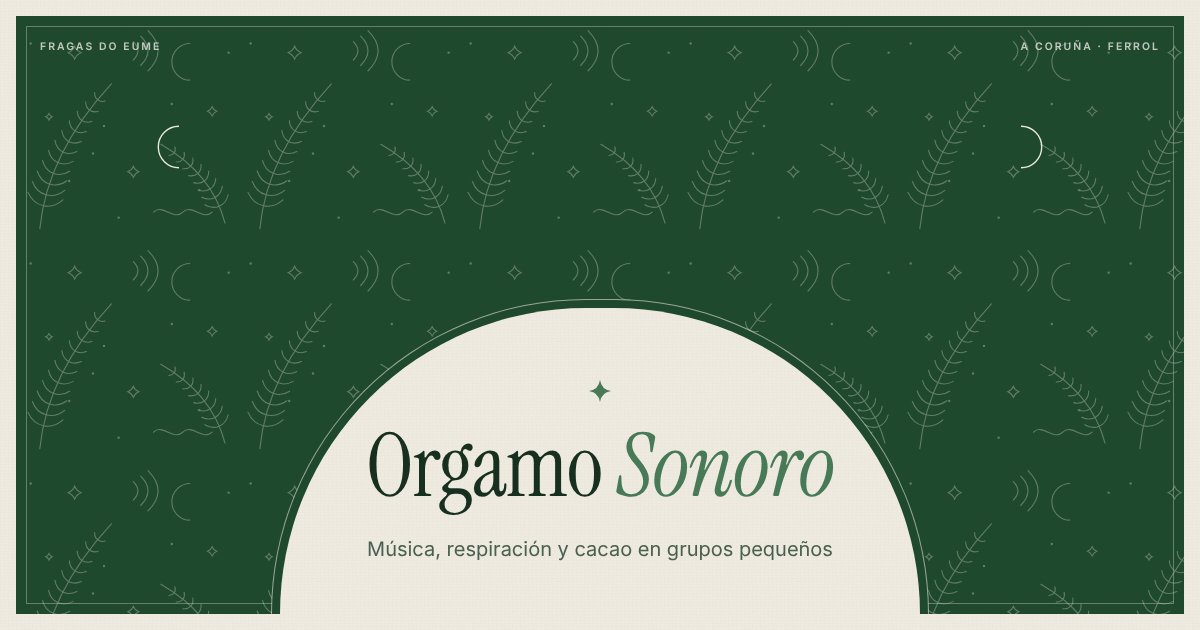
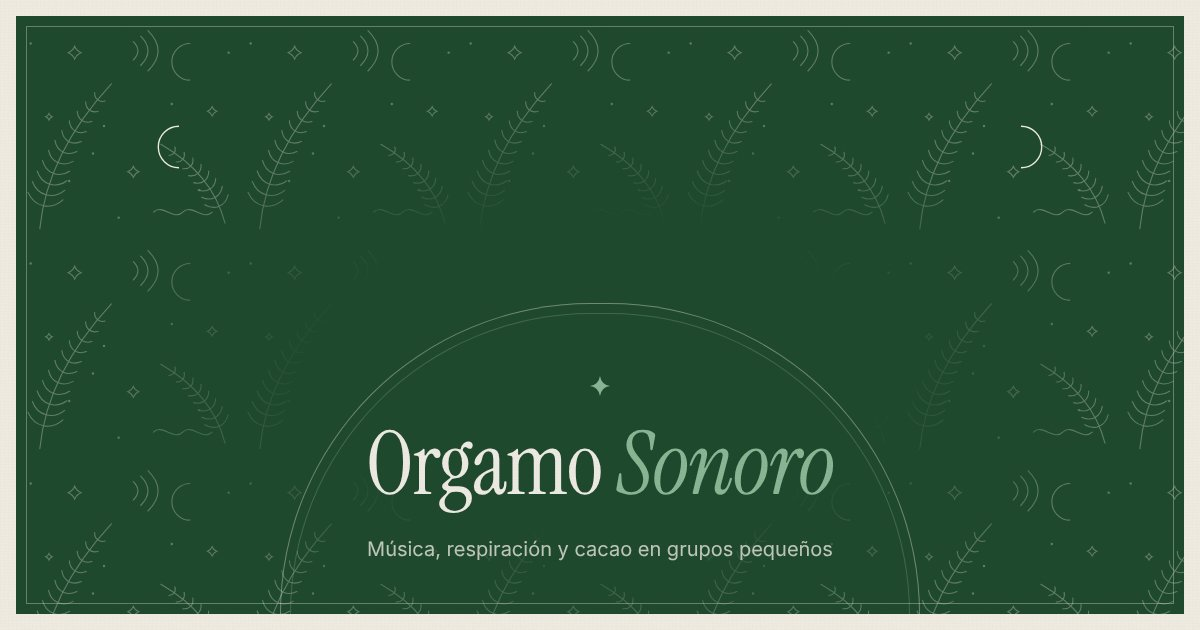
Quita las etiquetas de las esquinas del hero
Claude-Session: https://claude.ai/code/session_01UNSihENfcE9JtbGhWD4Q16

diff --git a/index.html b/index.html
@@ -151,8 +151,6 @@
     <!-- 2. Hero: lámina enmarcada con toile de helechos; el grabado se desvanece tras el texto -->
     <section class="hero" id="inicio" aria-labelledby="hero-titulo">
       <div class="hero__frame">
-        <span class="hero__corner hero__corner--tl">Fragas do Eume</span>
-        <span class="hero__corner hero__corner--tr">Encontro Nº 01</span>
         <svg class="hero__moon hero__moon--l" aria-hidden="true" viewBox="0 0 40 40"><path d="M20 2 A18 18 0 1 0 20 38 A13 13 0 1 1 20 2 Z"/></svg>
         <svg class="hero__moon hero__moon--r" aria-hidden="true" viewBox="0 0 40 40"><path d="M20 2 A18 18 0 1 1 20 38 A13 13 0 1 0 20 2 Z"/></svg>
 

diff --git a/styles.css b/styles.css
@@ -377,19 +377,6 @@ p {
   pointer-events: none;
 }
 
-.hero__corner {
-  position: absolute;
-  top: 22px;
-  font-size: 0.65rem;
-  font-weight: 600;
-  letter-spacing: 0.2em;
-  text-transform: uppercase;
-  color: rgba(240, 237, 230, 0.8);
-}
-
-.hero__corner--tl { left: 24px; }
-.hero__corner--tr { right: 24px; }
-
 .hero__moon {
   display: none;
   position: absolute;
